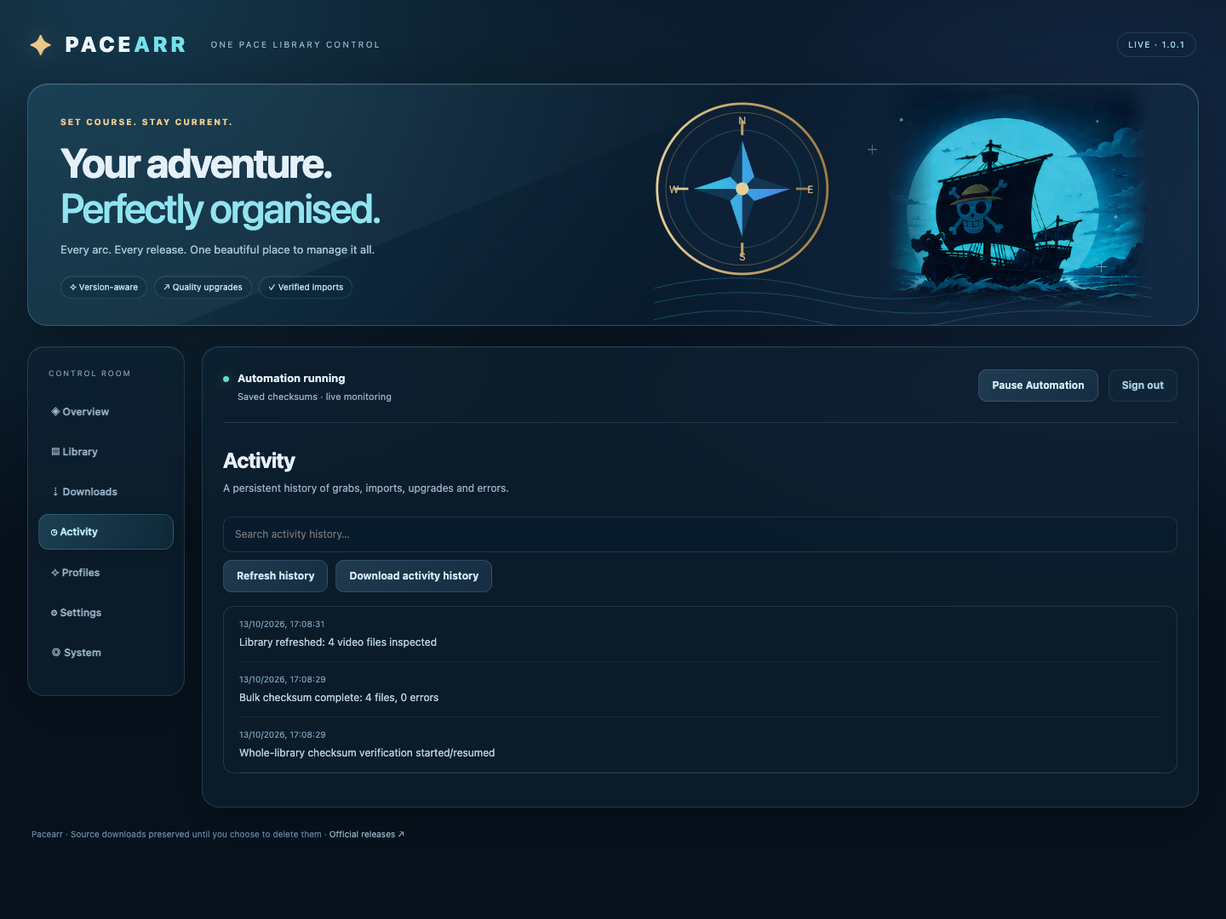
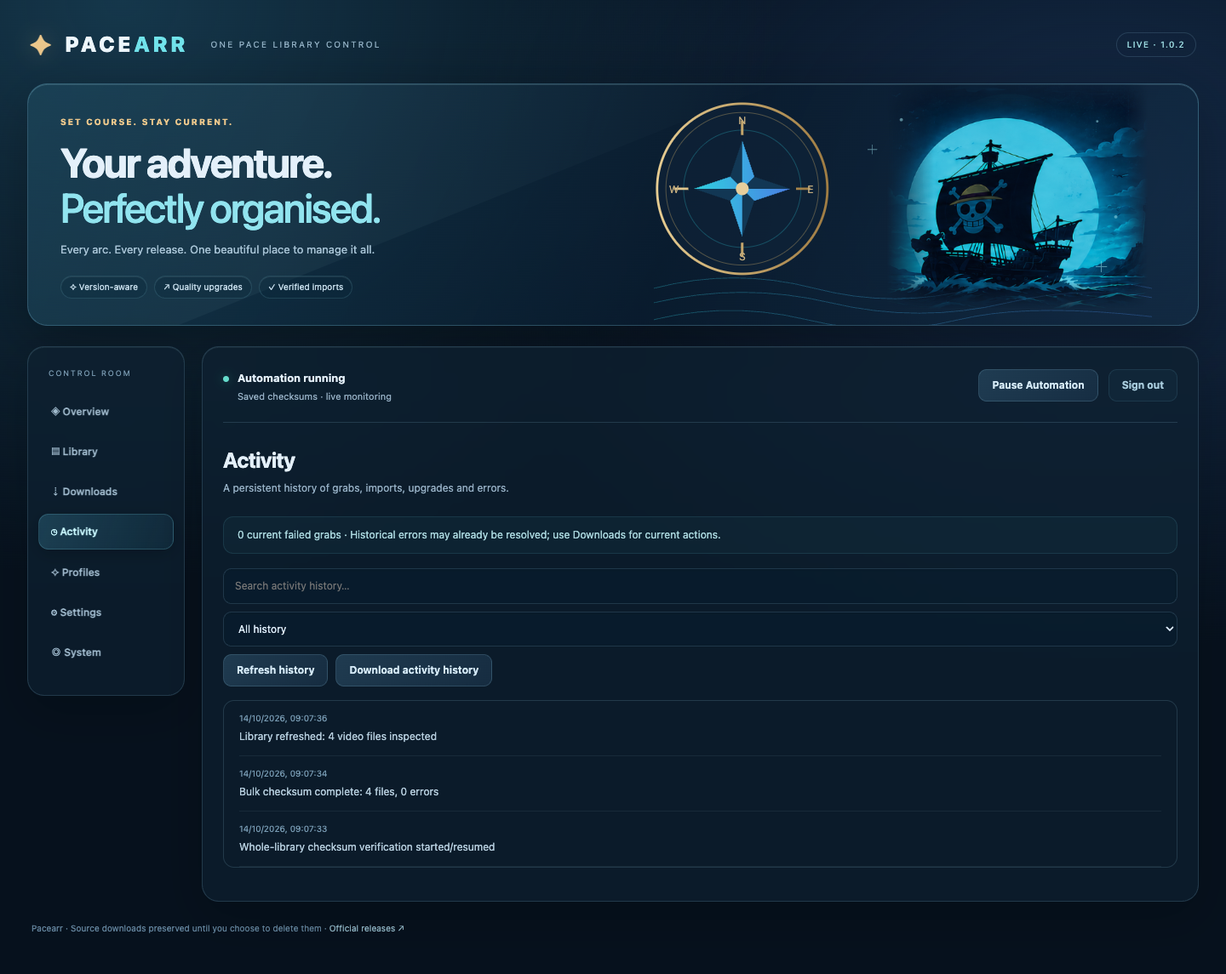
Release v1.0.2: separate download outcomes and prevent repeat Deluge grabs

diff --git a/web/manager.js b/web/manager.js
@@ -1,6 +1,7 @@
 window.mountManager=async function(){
+ const {downloadGroup}=await import('/download-state.mjs');
  const host=document.getElementById('app');host.innerHTML='<div class="control-shell"><nav class="sidebar" aria-label="Pacearr sections"><div class="sidebar-title">CONTROL ROOM</div></nav><div class="workspace"><div class="command-bar"><div><span class="live-dot"></span><strong id="automationState">Connecting…</strong><small id="automationDetail">Loading saved state</small></div><button id="automationToggle" class="primary">Start Automation</button><button id="logout" class="quiet">Sign out</button></div><div id="panels"></div></div></div>';
- const nav=host.querySelector('nav'),panels={},content=document.getElementById('panels');let current='Overview',status={},config={},libraryRows=[],feedRows=[],pollTimer=null,feedTimer=null,lastRunning=false,libraryLoading=false,lastLibraryRefresh=0,lastRevision=null,statusLoading=false;const downloadsSelected=new Set(),librarySelected=new Set();
+ const nav=host.querySelector('nav'),panels={},content=document.getElementById('panels');let current='Overview',status={},config={},libraryRows=[],feedRows=[],pollTimer=null,feedTimer=null,lastRunning=false,libraryLoading=false,lastLibraryRefresh=0,lastRevision=null,statusLoading=false;const downloadsSelected=new Set(),completedSelected=new Set(),librarySelected=new Set();
  const icons={Overview:'◈',Library:'▤',Downloads:'⇣',Activity:'◷',Profiles:'✧',Settings:'⚙',System:'◎'};
  for(const name of Object.keys(icons)){const button=makeButton(icons[name]+' '+name,()=>navigate(name),'nav-button');button.setAttribute('aria-label',name);nav.append(button);const panel=document.createElement('section');panel.className='panel';panel.hidden=true;panel.dataset.section=name;panels[name]=panel;content.append(panel);const h=document.createElement('h2');h.textContent=name;panel.append(h)}
  const intro={Overview:'Your collection at a glance. Live controls, real outcomes.',Library:'Browse episodes, search releases and grab missing or updated files.',Downloads:'Live progress and completed files from your configured download folder.',Activity:'A persistent history of grabs, imports, upgrades and errors.',Profiles:'Choose the releases Pacearr should look for and how it should handle them.',Settings:'Connections, mounted folders and saved credentials.',System:'Connection health, saved checksums and application information.'};
@@ -8,7 +9,7 @@ window.mountManager=async function(){
  function makeButton(text,action,style='secondary'){const b=document.createElement('button');b.type='button';b.className=style;b.textContent=text;b.onclick=async()=>{b.disabled=true;try{await action()}catch(e){notice(e.message)}finally{b.disabled=false}};return b}
  function line(text,style='helper'){const p=document.createElement('p');p.className=style;p.textContent=text;return p}
  function actions(...buttons){const group=document.createElement('div');group.className='actions';group.append(...buttons);return group}
- function badge(value){const el=document.createElement('span');el.className='badge badge-'+value;el.textContent=({verified:'✓ Verified',current:'Up to date',missing:'Missing',imported:'Imported','already-current':'Already installed','replacement-candidate':'Update available','manual-import':'Manual import',review:'Needs review','review-checksum-mismatch':'Needs review','present-unverified':'Not verified','excluded-special':'Special excluded','awaiting-authorisation':'Approval needed','awaiting-profile':'Profile mismatch',ignored:'Ignored'})[value]||String(value||'Pending').replaceAll('-',' ');return el}
+ function badge(value){const el=document.createElement('span');el.className='badge badge-'+value;el.textContent=({requested:'Waiting for slot',queued:'Accepted by Deluge',confirming:'Waiting for metadata','blocked-path':'Different download folder',verified:'✓ Verified',current:'Up to date',missing:'Missing',imported:'Imported','already-current':'Already installed','replacement-candidate':'Update available','manual-import':'Manual import',review:'Needs review','review-checksum-mismatch':'Needs review','present-unverified':'Not verified','excluded-special':'Special excluded','awaiting-authorisation':'Approval needed','awaiting-profile':'Profile mismatch',ignored:'Ignored'})[value]||String(value||'Pending').replaceAll('-',' ');return el}
  function episodeCode(row){return row.season===null||row.season===undefined?'Unmatched':`S${String(row.season).padStart(2,'0')}E${String(row.episode).padStart(2,'0')}`}
  function clearRevealed(){for(const name of ['plexToken','delugePassword']){const input=document.getElementById(name);if(input?.dataset.revealed==='yes'){input.value='';input.type='password';input.dataset.revealed='no';document.getElementById(name==='plexToken'?'revealPlex':'revealDeluge').innerHTML=eyeIcon(false)}}}
  function navigate(name){current=name;for(const [key,p] of Object.entries(panels))p.hidden=key!==name;for(const b of nav.querySelectorAll('button'))b.setAttribute('aria-current',b.getAttribute('aria-label')===name?'page':'false');if(name!=='Settings')clearRevealed();clearTimeout(feedTimer);if(name==='Downloads')refreshFeed();if(name==='Library'&&!libraryRows.length)loadLibrary();refreshStatus()}
@@ -29,18 +30,20 @@ window.mountManager=async function(){
  async function showGrabPlan(candidates,title){const m=modal(title,'Choose releases to grab. Current installed files are skipped; your concurrency limit is respected.');const chosen=new Set(candidates.filter(x=>x.available&&x.profileMatch.ok).map(x=>x.hash));const override=document.createElement('input');override.type='checkbox';const opt=document.createElement('label');opt.className='check-line';opt.append(override,document.createTextNode('Allow manual grabs outside profile preferences'));m.body.append(opt);const list=document.createElement('div');list.className='grab-plan';for(const c of candidates){const label=document.createElement('label');label.className='check-line';const check=document.createElement('input');check.type='checkbox';check.checked=chosen.has(c.hash);check.disabled=!c.available||!c.profileMatch.ok;check.dataset.profile=String(c.profileMatch.ok);check.onchange=()=>check.checked?chosen.add(c.hash):chosen.delete(c.hash);label.append(check,document.createTextNode(`${episodeCode(c)} · ${c.title} · ${c.variant} · ${c.quality?c.quality+'p':'Details after download'} · ${c.reason||''}`));list.append(label)}override.onchange=()=>{for(const check of list.querySelectorAll('input'))if(check.dataset.profile==='false')check.disabled=!override.checked};m.body.append(list);m.footer.append(makeButton('Cancel',()=>m.dialog.close()),makeButton('Grab selected releases',async()=>{const requests=candidates.filter(x=>chosen.has(x.hash)).map(x=>({season:x.season,episode:x.episode,variant:x.variant,overrideProfile:override.checked}));if(!requests.length)throw Error('Select at least one release');const r=await api('manage/grab','POST',{requests});notice(`${r.queued} grabs queued · ${r.skipped.length} skipped`);m.dialog.close();await refreshStatus()},'primary'))}
  async function searchWhole(){const r=await api('manage/search','POST',{scope:'library'});if(!r.candidates.length){notice('Your library has no available missing or updated preferred releases.');return}await showGrabPlan(r.candidates,`Search library · ${r.missing} missing / ${r.updates} updates`)}
  async function searchSelected(){const selected=libraryRows.filter(r=>librarySelected.has(episodeCode(r)));if(!selected.length)throw Error('Select library episodes first');const results=[];for(let i=0;i<selected.length;i+=4)results.push(...await Promise.all(selected.slice(i,i+4).map(r=>api('manage/search','POST',{season:r.season,episode:r.episode}))));await showGrabPlan(results.flatMap(x=>x.candidates.filter(c=>c.preferred)),'Grab selected episodes')}
- const feedSummary=line('Connecting to Deluge…','job-summary');panels.Downloads.append(feedSummary);const showIgnored=document.createElement('input');showIgnored.type='checkbox';const ignoredLabel=document.createElement('label');ignoredLabel.className='check-line';ignoredLabel.append(showIgnored,document.createTextNode('Show ignored / deleted items'));showIgnored.onchange=()=>renderFeed();const selectionSummary=line('Select completed files for bulk actions.','selection-summary');panels.Downloads.append(actions(makeButton('Refresh downloads',()=>refreshFeed()),makeButton('Import selected',()=>manualImport(feedRows.filter(x=>downloadsSelected.has(x.key))),'primary'),makeButton('Delete selected',()=>deleteFiles(feedRows.filter(x=>downloadsSelected.has(x.key))),'danger'),makeButton('Clear selection',()=>{downloadsSelected.clear();completedTable.render();selectionSummary.textContent='Selection cleared.'},'quiet')),selectionSummary,ignoredLabel);
+ const feedSummary=line('Connecting to Deluge…','job-summary');panels.Downloads.append(feedSummary,actions(makeButton('Refresh downloads',()=>refreshFeed())));const showIgnored=document.createElement('input');showIgnored.type='checkbox';const ignoredLabel=document.createElement('label');ignoredLabel.className='check-line';ignoredLabel.append(showIgnored,document.createTextNode('Show ignored / deleted items'));showIgnored.onchange=()=>renderFeed();panels.Downloads.append(ignoredLabel);
  function subheading(title){const h=document.createElement('h3');h.textContent=title;panels.Downloads.append(h)}
+ subheading('Queued episode grabs');const grabsTable=table(panels.Downloads,[{label:'Episode',get:episodeCode},{label:'Status',get:r=>badge(r.status)},{label:'What happens next',get:r=>r.reason||(r.status==='requested'?'Waiting for a free download slot':'Waiting for Deluge confirmation')}]);
  subheading('Downloading');const liveTable=table(panels.Downloads,[{label:'File',get:r=>r.path},{label:'State',get:r=>r.state},{label:'Progress',get:r=>{const box=document.createElement('div');box.className='progress-cell';const bar=document.createElement('progress');bar.max=100;if(r.progress!==null)bar.value=r.progress;box.append(bar,document.createTextNode(r.progress===null?'Metadata loading':r.progress.toFixed(1)+'%'));return box}}]);
- subheading('Completed & awaiting action');const completedTable=table(panels.Downloads,[{label:'File',get:r=>r.path},{label:'Status',get:r=>badge(r.ignored?'ignored':r.queue?.status||'pending')},{label:'Details',get:r=>r.queue?.reason||'Waiting for verified processing'},{label:'Actions',get:r=>actions(...(r.exists?[makeButton('Review',()=>review(r),'quiet')]:[]),...(r.exists?[makeButton('Import',()=>manualImport([r])),makeButton('Delete',()=>deleteFiles([r]),'danger')]:[]))}],{selection:downloadsSelected,canSelect:r=>r.exists&&r.progress===100,onSelect:()=>selectionSummary.textContent=downloadsSelected.size+' files selected'});
- subheading('Errors');const errorsTable=table(panels.Downloads,[{label:'File / episode',get:r=>r.path},{label:'Error',get:r=>r.queue?.reason},{label:'Actions',get:r=>actions(...(r.acquisition?[makeButton('Search episode',()=>searchEpisode(r),'quiet')]:[makeButton('Review',()=>review(r),'quiet')]),makeButton('Retry',async()=>{await api('manage/retry','POST',{key:r.key});await refreshFeed()}))}]);
- let acquisitions=[];function renderFeed(){const visible=feedRows.filter(x=>showIgnored.checked||!x.ignored);liveTable.set(visible.filter(x=>x.progress!==100&&x.queue?.status!=='error'));completedTable.set(visible.filter(x=>x.progress===100&&x.queue?.status!=='error'));errorsTable.set([...visible.filter(x=>x.queue?.status==='error'),...acquisitions.filter(x=>x.status==='error').map(x=>({...x,acquisition:true,key:x.hash,path:episodeCode(x)+' torrent grab',queue:x}))])}
- async function refreshFeed(){try{const r=await api('manage/feed');if(!r.ok)throw Error(r.error);feedRows=r.rows;acquisitions=r.acquisitions||[];renderFeed();feedSummary.textContent=`${r.root} · ${feedRows.filter(x=>x.progress!==100).length} downloading · ${feedRows.filter(x=>x.progress===100&&!x.ignored).length} completed · refreshed ${new Date(r.updated).toLocaleTimeString()}`+(r.workerError?' · '+r.workerError:'')}catch(e){feedSummary.textContent='Download feed: '+e.message}finally{clearTimeout(feedTimer);if(current==='Downloads'&&host.contains(content))feedTimer=setTimeout(refreshFeed,15000)}}
+ subheading('Awaiting action');panels.Downloads.append(line('Downloaded files needing verification, approval, a profile decision or manual episode assignment.'));const awaitingSelection=line('Select files to import or delete.','selection-summary');panels.Downloads.append(actions(makeButton('Import selected awaiting files',()=>manualImport(feedRows.filter(x=>downloadsSelected.has(x.key))),'primary'),makeButton('Delete selected awaiting files',()=>deleteFiles(feedRows.filter(x=>downloadsSelected.has(x.key))),'danger'),makeButton('Clear awaiting selection',()=>{downloadsSelected.clear();awaitingTable.render();awaitingSelection.textContent='Selection cleared.'},'quiet')),awaitingSelection);const awaitingTable=table(panels.Downloads,[{label:'File',get:r=>r.path},{label:'Status',get:r=>badge(r.ignored?'ignored':r.queue?.status||'pending')},{label:'Needs attention',get:r=>r.queue?.reason||'Waiting for verified processing'},{label:'Actions',get:r=>actions(...(r.exists?[makeButton('Review',()=>review(r),'quiet'),makeButton('Import',()=>manualImport([r])),makeButton('Delete',()=>deleteFiles([r]),'danger')]:[]))}],{selection:downloadsSelected,canSelect:r=>r.exists&&r.finished&&r.progress===100,onSelect:()=>awaitingSelection.textContent=downloadsSelected.size+' awaiting files selected'});
+ subheading('Completed');panels.Downloads.append(line('Imported or already installed. These source files remain available for seeding until you choose to delete them.'));const completedSelection=line('Select completed source files to delete.','selection-summary');panels.Downloads.append(actions(makeButton('Delete selected completed files',()=>deleteFiles(feedRows.filter(x=>completedSelected.has(x.key))),'danger'),makeButton('Clear completed selection',()=>{completedSelected.clear();completedTable.render();completedSelection.textContent='Selection cleared.'},'quiet')),completedSelection);const completedTable=table(panels.Downloads,[{label:'File',get:r=>r.path},{label:'Outcome',get:r=>badge(r.queue?.status)},{label:'Library / details',get:r=>r.queue?.destination||r.queue?.reason},{label:'Actions',get:r=>actions(makeButton('View library',()=>navigate('Library'),'quiet'),...(r.exists?[makeButton('Delete source',()=>deleteFiles([r]),'danger')]:[]))}],{selection:completedSelected,canSelect:r=>r.exists&&r.finished&&r.progress===100,onSelect:()=>completedSelection.textContent=completedSelected.size+' completed files selected'});
+ subheading('Errors');const errorsTable=table(panels.Downloads,[{label:'File / episode',get:r=>r.path},{label:'Failure and next step',get:r=>(r.queue?.reason||'Unknown failure')+(r.queue?.retryAt?` · ${r.queue.attempts>=5?'Manual retry required':'Retry '+new Date(r.queue.retryAt).toLocaleString()}`:'')},{label:'Actions',get:r=>actions(...(r.acquisition?[makeButton('Search episode',()=>searchEpisode(r),'quiet')]:[makeButton('Review',()=>review(r),'quiet')]),makeButton('Retry',async()=>{await api('manage/retry','POST',{key:r.key});await refreshFeed()}))}]);
+ let acquisitions=[],grabs=[];function renderFeed(){const visible=feedRows.filter(x=>showIgnored.checked||!x.ignored);for(const key of downloadsSelected)if(!visible.some(r=>r.key===key&&downloadGroup(r)==='awaiting'&&r.exists&&r.finished))downloadsSelected.delete(key);for(const key of completedSelected)if(!visible.some(r=>r.key===key&&downloadGroup(r)==='completed'&&r.exists&&r.finished))completedSelected.delete(key);awaitingSelection.textContent=downloadsSelected.size+' awaiting files selected';completedSelection.textContent=completedSelected.size+' completed files selected';liveTable.set(visible.filter(x=>downloadGroup(x)==='downloading'));awaitingTable.set(visible.filter(x=>downloadGroup(x)==='awaiting'));completedTable.set(visible.filter(x=>downloadGroup(x)==='completed'));grabsTable.set(grabs.filter(x=>['requested','queued','confirming','pending','blocked-path'].includes(x.status)&&!feedRows.some(r=>r.hash===x.hash)));const failed=new Map([...acquisitions,...grabs].filter(x=>x.status==='error').map(x=>[x.hash,x]));errorsTable.set([...visible.filter(x=>downloadGroup(x)==='errors'),...[...failed.values()].map(x=>({...x,acquisition:true,key:x.hash,path:episodeCode(x)+' torrent grab',queue:x}))])}
+ async function refreshFeed(){try{const r=await api('manage/feed');if(!r.ok)throw Error(r.error);feedRows=r.rows;acquisitions=r.acquisitions||[];grabs=r.grabs||[];renderFeed();const visible=feedRows.filter(x=>!x.ignored);feedSummary.textContent=`${r.root} · ${visible.filter(x=>downloadGroup(x)==='downloading').length} downloading · ${visible.filter(x=>downloadGroup(x)==='completed').length} completed · ${visible.filter(x=>downloadGroup(x)==='awaiting').length} awaiting action · refreshed ${new Date(r.updated).toLocaleTimeString()}`+(r.workerError?' · '+r.workerError:'')}catch(e){feedSummary.textContent='Download feed: '+e.message}finally{clearTimeout(feedTimer);if(current==='Downloads'&&host.contains(content))feedTimer=setTimeout(refreshFeed,15000)}}
  async function review(row){if(!row.key||!row.path)throw Error('Choose a download file');const r=await api('manage/review','POST',{key:row.key});const m=modal('Review download',r.file.path);const grid=document.createElement('div');grid.className='detail-grid';for(const text of [`State: ${r.file.state}`,`Progress: ${r.file.progress}%`,`Size: ${(r.file.size/1073741824).toFixed(2)} GB`,`Reason: ${r.file.queue?.reason||'No review reason'}`])grid.append(line(text));m.body.append(grid,line('Unsupported edits can be assigned manually to an episode or ignored. Original downloads are retained after import.'));m.footer.append(makeButton('Recheck',async()=>{await api('manage/retry','POST',{key:row.key});m.dialog.close();await refreshFeed()}),makeButton(row.ignored?'Restore item':'Ignore file',async()=>{await api('manage/ignore','POST',{key:row.key,ignored:!row.ignored});m.dialog.close();await refreshFeed()}),makeButton('Ignore folder',async()=>{await api('manage/ignore','POST',{key:row.key,folder:true});m.dialog.close();await refreshFeed()}),makeButton('Assign & import',async()=>{m.dialog.close();await manualImport([row])},'primary'))}
- async function manualImport(rows){if(!rows.length)throw Error('Select completed download files first');if(rows.some(x=>x.progress!==100||!x.exists))throw Error('Select only completed files that still exist');const m=modal(rows.length===1?'Manual import':'Bulk manual import',`${rows.length} selected files. Confirm an episode assignment for each. Replaced files are backed up; source downloads stay intact.`);const list=document.createElement('datalist');list.id='manual-episodes-'+Date.now();for(const ep of libraryRows.filter(x=>x.season!==null)){if(list.querySelector(`option[value="${episodeCode(ep)}"]`))continue;const option=document.createElement('option');option.value=episodeCode(ep);option.label=ep.title;list.append(option)}m.body.append(list);const entries=[];for(const row of rows){const group=document.createElement('label');group.className='mapping-row';group.append(document.createTextNode(row.path));const input=document.createElement('input');input.placeholder='S36E01';input.setAttribute('list',list.id);input.setAttribute('aria-label','Episode assignment for '+row.path);if(Number.isInteger(row.queue?.season))input.value=episodeCode(row.queue);group.append(input);m.body.append(group);entries.push({row,input})}const sequence=document.createElement('input');sequence.placeholder='Starting episode, e.g. S36E01';sequence.setAttribute('aria-label','Starting episode');m.body.append(actions(sequence,makeButton('Apply consecutive episode assignments',()=>{const match=/^S(\d{1,3})E(\d{1,3})$/i.exec(sequence.value.trim());if(!match)throw Error('Enter a starting SxxExx episode');entries.forEach((x,i)=>x.input.value=episodeCode({season:+match[1],episode:+match[2]+i}))})));const replace=document.createElement('input');replace.type='checkbox';const label=document.createElement('label');label.className='check-line';label.append(replace,document.createTextNode('Allow replacement of installed episodes; previous files will be backed up'));m.body.append(label);m.footer.append(makeButton('Cancel',()=>m.dialog.close()),makeButton('Import selected files',async()=>{const assignments=entries.map(({row,input})=>{const match=/^S(\d{1,3})E(\d{1,3})$/i.exec(input.value.trim());if(!match)throw Error('Assign every selected file to an SxxExx episode');return {key:row.key,season:+match[1],episode:+match[2],replaceConfirmed:replace.checked}});const result=await api('manage/manual-import','POST',{assignments});notice(result.queued+' manual imports queued');m.dialog.close();downloadsSelected.clear();await refreshFeed()},'primary'))}
- async function deleteFiles(rows){if(!rows.length)throw Error('Select completed files first');const m=modal('Delete '+rows.length+' download files','This removes the selected source files. Library copies are preserved. Seeding for the selected files will be affected.');for(const row of rows)m.body.append(line(row.path,'delete-path'));const remove=document.createElement('input');remove.type='checkbox';const label=document.createElement('label');label.className='check-line';label.append(remove,document.createTextNode('Also remove affected torrent records from Deluge; unselected data stays on disk'));m.body.append(label);m.footer.append(makeButton('Cancel',()=>m.dialog.close()),makeButton('Delete selected files',async()=>{const result=await api('manage/delete','POST',{keys:rows.map(x=>x.key),confirm:'DELETE_SELECTED_FILES',removeTorrents:remove.checked});notice(`${result.deleted?.length||0} files deleted`+(result.failed?.length?' · '+result.failed.length+' failed':''));m.dialog.close();downloadsSelected.clear();await refreshFeed()},'danger'))}
- const activitySearch=document.createElement('input');activitySearch.type='search';activitySearch.placeholder='Search activity history…';activitySearch.setAttribute('aria-label','Search activity history');const activityList=document.createElement('div');activityList.className='activity-log';panels.Activity.append(actions(activitySearch,makeButton('Refresh history',()=>refreshStatus()),makeButton('Download activity history',async()=>{const r=await api('manage/status'),blob=new Blob([r.activity.map(x=>`${x.time} [${x.level||'info'}] ${x.message}`).join('\n')],{type:'text/plain'}),url=URL.createObjectURL(blob),a=document.createElement('a');a.href=url;a.download='pacearr-activity.log';a.click();setTimeout(()=>URL.revokeObjectURL(url),1000)})),activityList);activitySearch.oninput=()=>renderActivity();
- function renderActivity(){activityList.replaceChildren();for(const item of (status.activity||[]).filter(x=>(x.time+' '+x.message).toLowerCase().includes(activitySearch.value.toLowerCase()))){const row=document.createElement('div');row.className='activity-event activity-'+(item.level||'info');row.append(line(new Date(item.time).toLocaleString(),'event-time'),line(item.message,'event-message'));activityList.append(row)}recent.replaceChildren();for(const item of (status.activity||[]).slice(0,5))recent.append(line(new Date(item.time).toLocaleTimeString()+' · '+item.message,'recent-event'))}
+ async function manualImport(rows){if(!rows.length)throw Error('Select completed download files first');if(rows.some(x=>x.progress!==100||!x.exists))throw Error('Select only completed files that still exist');const m=modal(rows.length===1?'Manual import':'Bulk manual import',`${rows.length} selected files. Confirm an episode assignment for each. Replaced files are backed up; source downloads stay intact.`);const list=document.createElement('datalist');list.id='manual-episodes-'+Date.now();for(const ep of libraryRows.filter(x=>x.season!==null)){if(list.querySelector(`option[value="${episodeCode(ep)}"]`))continue;const option=document.createElement('option');option.value=episodeCode(ep);option.label=ep.title;list.append(option)}m.body.append(list);const entries=[];for(const row of rows){const group=document.createElement('label');group.className='mapping-row';group.append(document.createTextNode(row.path));const input=document.createElement('input');input.placeholder='S36E01';input.setAttribute('list',list.id);input.setAttribute('aria-label','Episode assignment for '+row.path);if(Number.isInteger(row.queue?.season))input.value=episodeCode(row.queue);group.append(input);m.body.append(group);entries.push({row,input})}const sequence=document.createElement('input');sequence.placeholder='Starting episode, e.g. S36E01';sequence.setAttribute('aria-label','Starting episode');m.body.append(actions(sequence,makeButton('Apply consecutive episode assignments',()=>{const match=/^S(\d{1,3})E(\d{1,3})$/i.exec(sequence.value.trim());if(!match)throw Error('Enter a starting SxxExx episode');entries.forEach((x,i)=>x.input.value=episodeCode({season:+match[1],episode:+match[2]+i}))})));const replace=document.createElement('input');replace.type='checkbox';const label=document.createElement('label');label.className='check-line';label.append(replace,document.createTextNode('Allow replacement of installed episodes; previous files will be backed up'));m.body.append(label);m.footer.append(makeButton('Cancel',()=>m.dialog.close()),makeButton('Import selected files',async()=>{const assignments=entries.map(({row,input})=>{const match=/^S(\d{1,3})E(\d{1,3})$/i.exec(input.value.trim());if(!match)throw Error('Assign every selected file to an SxxExx episode');return {key:row.key,season:+match[1],episode:+match[2],replaceConfirmed:replace.checked}});const result=await api('manage/manual-import','POST',{assignments});notice(result.queued+' manual imports queued');m.dialog.close();downloadsSelected.clear();completedSelected.clear();await refreshFeed()},'primary'))}
+ async function deleteFiles(rows){if(!rows.length)throw Error('Select completed files first');const m=modal('Delete '+rows.length+' download files','This removes the selected source files. Library copies are preserved. Seeding for the selected files will be affected.');for(const row of rows)m.body.append(line(row.path,'delete-path'));const remove=document.createElement('input');remove.type='checkbox';const label=document.createElement('label');label.className='check-line';label.append(remove,document.createTextNode('Also remove affected torrent records from Deluge; unselected data stays on disk'));m.body.append(label);m.footer.append(makeButton('Cancel',()=>m.dialog.close()),makeButton('Delete selected files',async()=>{const result=await api('manage/delete','POST',{keys:rows.map(x=>x.key),confirm:'DELETE_SELECTED_FILES',removeTorrents:remove.checked});notice(`${result.deleted?.length||0} files deleted`+(result.failed?.length?' · '+result.failed.length+' failed':''));m.dialog.close();downloadsSelected.clear();completedSelected.clear();await refreshFeed()},'danger'))}
+ const activitySearch=document.createElement('input');activitySearch.type='search';activitySearch.placeholder='Search activity history…';activitySearch.setAttribute('aria-label','Search activity history');const activityLevel=document.createElement('select');activityLevel.setAttribute('aria-label','Activity severity');for(const [value,label] of [['all','All history'],['error','Errors'],['warning','Warnings'],['info','Information']]){const o=document.createElement('option');o.value=value;o.textContent=label;activityLevel.append(o)}activityLevel.onchange=()=>renderActivity();const activitySummary=line('History includes past outcomes; current queue failures are shown under Downloads.','job-summary');panels.Activity.append(activitySummary);const activityList=document.createElement('div');activityList.className='activity-log';panels.Activity.append(actions(activitySearch,activityLevel,makeButton('Refresh history',()=>refreshStatus()),makeButton('Download activity history',async()=>{const r=await api('manage/status'),blob=new Blob([r.activity.map(x=>`${x.time} [${x.level||'info'}] ${x.message}`).join('\n')],{type:'text/plain'}),url=URL.createObjectURL(blob),a=document.createElement('a');a.href=url;a.download='pacearr-activity.log';a.click();setTimeout(()=>URL.revokeObjectURL(url),1000)})),activityList);activitySearch.oninput=()=>renderActivity();
+ function renderActivity(){const failed=[...(status.manualGrabs||[]),...(status.acquisitions||[])].filter(x=>x.status==='error');activitySummary.textContent=`${new Set(failed.map(x=>x.hash)).size} current failed grabs · Historical errors may already be resolved; use Downloads for current actions.`;activityList.replaceChildren();for(const item of (status.activity||[]).filter(x=>(activityLevel.value==='all'||x.level===activityLevel.value)&&(x.time+' '+x.message).toLowerCase().includes(activitySearch.value.toLowerCase()))){const row=document.createElement('div');row.className='activity-event activity-'+(item.level||'info');row.append(line(new Date(item.time).toLocaleString(),'event-time'),line(item.message,'event-message'));activityList.append(row)}recent.replaceChildren();for(const item of (status.activity||[]).slice(0,5))recent.append(line(new Date(item.time).toLocaleTimeString()+' · '+item.message,'recent-event'))}
  const profileForm=document.createElement('form');profileForm.className='profile-form';const profileToggles={preferAlternate:'Prefer alternate releases, including G-8',preferExtended:'Prefer extended releases',includeSpecials:'Include specials',autoRevisions:'Automatically replace older edits',autoQualityUpgrades:'Automatically upgrade quality',fetchUpdates:'Grab revised / upgraded releases in Deluge',autoMissing:'Automatically grab missing episodes'};
  for(const [name,text] of Object.entries(profileToggles)){const label=document.createElement('label');label.className='profile-switch';const input=document.createElement('input');input.type='checkbox';input.name=name;label.append(input,document.createTextNode(text));profileForm.append(label)}
  for(const [name,text,options] of [['minimumQuality','Minimum quality',[[720,'720p'],[1080,'1080p']]],['targetQuality','Upgrade target',[[720,'720p'],[1080,'1080p']]],['maxConcurrentDownloads','Concurrent downloads',[[1,'1'],[2,'2'],[3,'3'],[5,'5'],[10,'10']]],['language','Language preference',[['subbed','Japanese audio + English subtitles'],['dubbed','Prefer English dub when available'],['both','Prefer both audio tracks']]]]){const label=document.createElement('label');label.className='profile-field';label.textContent=text;const select=document.createElement('select');select.name=name;for(const [value,title] of options)select.add(new Option(title,value));label.append(select);profileForm.append(label)}

diff --git a/web/index.html b/web/index.html
@@ -1,1 +1,1 @@
-<!doctype html><html lang="en"><head><meta charset="utf-8"><meta name="viewport" content="width=device-width,initial-scale=1"><meta name="theme-color" content="#07121e"><title>Pacearr · Library Control</title><link rel="stylesheet" href="/app.css?v=1.0.1"></head><body><div class="ambient ambient-a"></div><div class="ambient ambient-b"></div><main><header class="masthead"><a class="brand" href="/"><span class="brand-mark">✦</span>PACE<span>ARR</span></a><span class="masthead-tag">ONE PACE LIBRARY CONTROL</span><span class="release-label">LIVE · 1.0.1</span></header><section class="hero"><div class="hero-copy"><span class="eyebrow">SET COURSE. STAY CURRENT.</span><h1>Your adventure.<br><em>Perfectly organised.</em></h1><p>Every arc. Every release. One beautiful place to manage it all.</p><div class="hero-chips"><span>✧ Version-aware</span><span>↗ Quality upgrades</span><span>✓ Verified imports</span></div></div><img class="hero-art" src="/hero.svg" alt="A luminous compass and pirate ship with a straw-hat flag over a midnight ocean"></section><section id="message" role="status" hidden></section><section id="app">Loading your library…</section><footer>Pacearr · Source downloads preserved until you choose to delete them · <a href="https://onepace.net/en/releases" target="_blank" rel="noopener noreferrer">Official releases ↗</a></footer></main><script src="/manager.js?v=1.0.1" defer></script><script src="/app.js?v=1.0.1" defer></script></body></html>
+<!doctype html><html lang="en"><head><meta charset="utf-8"><meta name="viewport" content="width=device-width,initial-scale=1"><meta name="theme-color" content="#07121e"><title>Pacearr · Library Control</title><link rel="stylesheet" href="/app.css?v=1.0.2"></head><body><div class="ambient ambient-a"></div><div class="ambient ambient-b"></div><main><header class="masthead"><a class="brand" href="/"><span class="brand-mark">✦</span>PACE<span>ARR</span></a><span class="masthead-tag">ONE PACE LIBRARY CONTROL</span><span class="release-label">LIVE · 1.0.2</span></header><section class="hero"><div class="hero-copy"><span class="eyebrow">SET COURSE. STAY CURRENT.</span><h1>Your adventure.<br><em>Perfectly organised.</em></h1><p>Every arc. Every release. One beautiful place to manage it all.</p><div class="hero-chips"><span>✧ Version-aware</span><span>↗ Quality upgrades</span><span>✓ Verified imports</span></div></div><img class="hero-art" src="/hero.svg" alt="A luminous compass and pirate ship with a straw-hat flag over a midnight ocean"></section><section id="message" role="status" hidden></section><section id="app">Loading your library…</section><footer>Pacearr · Source downloads preserved until you choose to delete them · <a href="https://onepace.net/en/releases" target="_blank" rel="noopener noreferrer">Official releases ↗</a></footer></main><script src="/manager.js?v=1.0.2" defer></script><script src="/app.js?v=1.0.2" defer></script></body></html>

diff --git a/RELEASE-NOTES.md b/RELEASE-NOTES.md
@@ -1,44 +1,38 @@
-# Set sail with Pacearr 🚢
+# Clearer downloads. Clearer decisions. 🚢
 
-**One Pace. Managed.** A live library view, visible download progress and verified upgrades—with the history of the project preserved.
+Pacearr v1.0.2 separates successful work from files needing attention and makes the Deluge grab lifecycle easier to follow. The glass layout and ship banner stay intact.
 
-![Pacearr control room](https://raw.githubusercontent.com/DaHeroKozuki/Pacearr/v1.0.1/docs/screenshots/overview.png)
+![Pacearr Downloads](https://raw.githubusercontent.com/DaHeroKozuki/Pacearr/v1.0.2/docs/screenshots/downloads.png)
 
-## What’s new in v1.0.1
+## Downloads now has distinct sections
 
-| Change | What it means for you |
-| --- | --- |
-| Clean deployment names | Project, service and container are all `pacearr`; the official Synology folder is `/volume1/docker/pacearr` |
-| Lean deployment folder | Only Compose and persistent state are needed when using the public image; cleanup archives development leftovers |
-| A richer project page | Original history, configuration reference and credits return, with current instructions, mount guidance and five WebUI screenshots |
-| Quieter live updates | Library, Overview, Downloads and Activity refresh automatically; background inventory checks no longer crowd the activity log |
-| Complete rebuildable source | Active source, portable integration/browser fixtures, packaging and screenshot tooling are published and included in a source archive |
-| Fresh public image | amd64 and arm64 builds pass unit/integration checks and a Docker health check before publication |
+- **Queued episode grabs:** requests waiting for a slot or Deluge metadata/feed confirmation. Existing torrents outside the configured folder are explained here.
+- **Downloading:** scoped torrent progress.
+- **Awaiting action:** completed downloads needing verification, approval, a profile decision or manual episode assignment—with its own single/bulk import and deletion controls.
+- **Completed:** imported or already installed source files, with a separate selection and source-deletion control. Sources remain available for seeding until explicitly deleted.
+- **Errors:** current failed jobs, actual reasons, retry timing and actions. Manual grab failures now appear here too.
 
-## Your collection, your control
+Selections are scoped to their section and cleared when a file changes category, avoiding accidental reuse of a selection after import.
 
-Search the full library, selected episodes or one release. Follow scoped Deluge progress. Import completed verified episodes, let same-cut revisions and 720p→1080p upgrades run unattended, or review custom edits with explicit episode assignments. Select one file or several for manual import or confirmed download deletion.
+## Deluge rejections explained
 
-Saved checksums survive restarts and updates. Verified copies preserve original downloads for seeding; replacements retain backups and restart-recovery journals. Activity records outcomes, errors and retries. Quality, cut, language and concurrency profiles put the release decisions in your hands.
+The previous generic “rejected read-only query” message hid the failed operation. New messages include the RPC method, error code and Deluge's reason, with saved password values redacted. Grab failures show attempt and retry timing; skipped grabs explain why they were skipped.
 
-![Pacearr Library](https://raw.githubusercontent.com/DaHeroKozuki/Pacearr/v1.0.1/docs/screenshots/library.png)
+Exact existing hashes are reused. A duplicate/being-added response naming the requested hash is treated as confirmation, not an unsuccessful new grab. Successfully accepted magnets reserve concurrency capacity while waiting for feed visibility and are not resubmitted automatically. If confirmation remains absent after five minutes, the queue asks for a Deluge check and manual Retry instead of sending another add blindly.
 
-<details><summary><b>See live downloads and profiles</b></summary>
+## Activity distinguishes current work from history
 
-![Pacearr Downloads](https://raw.githubusercontent.com/DaHeroKozuki/Pacearr/v1.0.1/docs/screenshots/downloads.png)
-![Pacearr Profiles](https://raw.githubusercontent.com/DaHeroKozuki/Pacearr/v1.0.1/docs/screenshots/profiles.png)
+A severity filter helps inspect information, warnings or errors. The current failed-grab count is shown separately from historical events, which may already be resolved. Existing history and checksum records remain intact.
 
-</details>
+![Pacearr Activity](https://raw.githubusercontent.com/DaHeroKozuki/Pacearr/v1.0.2/docs/screenshots/activity.png)
 
-*Screenshots show an isolated demonstration library.*
+## Try missing episodes
 
-## Install or update
+In Library, filter to Missing, select the episodes you want and use Grab selected episodes. Review the available releases/profile matches before submitting. Alternatively, enable Automatically grab missing episodes in Profiles and save while automation runs. Existing saved preferences are not silently changed; the default concurrency remains three unless you changed it.
 
-**Image:** `ghcr.io/daherokozuki/pacearr:v1.0.1` · Rolling tags: `:latest` and `:alpha`.
+Unavailable releases or unsupported profile matches can remain missing; the new skip/queue messages distinguish these from successful submissions and actual failures.
 
-New deployments: edit the host folders and UID:GID in [compose.yaml](https://github.com/DaHeroKozuki/Pacearr/blob/v1.0.1/compose.yaml), create a writable `data/state`, then configure the WebUI at port 49113. [Read the complete mount/setup guide](https://github.com/DaHeroKozuki/Pacearr/blob/v1.0.1/README.md#getting-started).
-
-Existing standalone Synology deployments: run [migrate-synology.sh](https://github.com/DaHeroKozuki/Pacearr/blob/v1.0.1/scripts/migrate-synology.sh) to clean the names while preserving saved paths and state. Then run [cleanup-synology.py](https://github.com/DaHeroKozuki/Pacearr/blob/v1.0.1/scripts/cleanup-synology.py) to archive unused development files. Inspect the new state mount before deleting any old test folder.
+## Update
 
 ```sh
 cd /volume1/docker/pacearr
@@ -46,14 +40,10 @@ docker-compose -p pacearr -f compose.yaml pull pacearr
 docker-compose -p pacearr -f compose.yaml up -d --no-build --no-deps --force-recreate pacearr
 ```
 
-Keep `/data/state` mounted across updates: it holds your private settings, vault keys, encrypted credentials, checksums and history. It is never included in public source archives.
+Refresh the browser once for the new assets. Preserve `/data/state`. Public images: `ghcr.io/daherokozuki/pacearr:v1.0.2`, `:latest` and compatibility tag `:alpha`, for amd64/arm64.
 
-## What’s included
+The application ZIP, complete active source archive and SHA256SUMS are attached. All earlier source/history and the expanded [setup/mount guide](https://github.com/DaHeroKozuki/Pacearr) remain available. No private state or credentials are packaged.
 
-- `pacearr-v1.0.1.zip`: application/deployment files, not personal state.
-- `pacearr-v1.0.1-source.zip`: complete active application, tests, scripts, documentation, screenshots and license.
-- `SHA256SUMS`: archive checksums.
+**Validation:** 23 unit tests, automatic import/upgrade/acquisition/bulk/restart fixtures, a delayed Deluge visibility regression, desktop/mobile UI checks, and CI Docker build/health checks before publication. Screenshots use isolated demonstration data.
 
-Current runtime: Deluge and mounted libraries, with read-only Plex connection/discovery. Plex mutations and historical Jellyfin/Emby/other-client integrations remain outside this runtime; their original source and reference are preserved in GitHub. Earlier Alpha environment/SQLite settings require explicit WebUI configuration; standalone setup.json/vault/checksum state stays compatible.
-
-Thanks to eltharynd, the One Pace team and everyone who helped bring Pacearr from its original foundation to this release. [Explore the project’s journey](https://github.com/DaHeroKozuki/Pacearr/blob/v1.0.1/README.md#the-journey-so-far) · [Join the community](https://discord.gg/u3zksrG8G6)
+[Project and setup guide](https://github.com/DaHeroKozuki/Pacearr) · [Community](https://discord.gg/u3zksrG8G6)

diff --git a/README.md b/README.md
@@ -6,7 +6,7 @@
 
 **One Pace library automation, built for self-hosters.**
 
-[![Version](https://img.shields.io/badge/version-1.0.1-38bdf8?style=flat-square)](https://github.com/DaHeroKozuki/Pacearr/releases)
+[![Version](https://img.shields.io/badge/version-1.0.2-38bdf8?style=flat-square)](https://github.com/DaHeroKozuki/Pacearr/releases)
 [![GitHub Packages](https://img.shields.io/badge/ghcr.io-daherokozuki%2Fpacearr-blue?style=flat-square&logo=github)](https://github.com/DaHeroKozuki/Pacearr/pkgs/container/pacearr)
 [![GitHub Release](https://img.shields.io/github/v/release/DaHeroKozuki/Pacearr?include_prereleases&style=flat-square)](https://github.com/DaHeroKozuki/Pacearr/releases)
 [![GitHub Issues](https://img.shields.io/github/issues/DaHeroKozuki/Pacearr?style=flat-square)](https://github.com/DaHeroKozuki/Pacearr/issues)
@@ -63,7 +63,7 @@ Browse installed and missing episodes, filter statuses, see saved checksum resul
 
 ### Downloads — watch progress and take action
 
-A live feed shows progress for the exact download folder you configured. Completed files have review, import and delete actions. Select several files for bulk import or confirmed deletion; inspect unresolved cases instead of guessing what happened.
+A live feed shows progress for the exact download folder you configured. Awaiting action holds downloaded files needing verification, approval or manual assignment. Completed holds imported or already installed sources, with separate selection and deletion controls. Select several files for bulk import or confirmed deletion; inspect unresolved cases instead of guessing what happened.
 
 ![Pacearr Downloads](docs/screenshots/downloads.png)
 
@@ -77,7 +77,7 @@ Set minimum quality, an upgrade target, preferred cuts, language preference and 
 
 ![Pacearr Activity](docs/screenshots/activity.png)
 
-Activity stores the latest 1,000 timestamped entries across restarts: checksums, imports, upgrades, review decisions, errors and recovery. Search it or export a text log.
+Activity shows current failed-grab counts separately from history, offers severity filtering, and records Deluge RPC methods, redacted rejection details and retry timing. It stores the latest 1,000 timestamped entries across restarts: checksums, imports, upgrades, review decisions, errors and recovery. Search it or export a text log.
 
 </details>
 
@@ -158,7 +158,7 @@ Docker images support **linux/amd64** and **linux/arm64**. Node.js 24 and ffmpeg
 
 ### Docker Compose
 
-Use `ghcr.io/daherokozuki/pacearr:latest` for easy updates, or pin `:v1.0.1`. The service, container and project are named **pacearr**.
+Use `ghcr.io/daherokozuki/pacearr:latest` for easy updates, or pin `:v1.0.2`. The service, container and project are named **pacearr**.
 
 ```yaml
 services:
@@ -328,6 +328,7 @@ Stop the worker before restoring an earlier image or application. Avoid replacin
 | Library management | Library/download views, profiles, persisted checksums and Activity |
 | Live automation | Verified imports, same-cut revisions, quality upgrades and explicit grabs |
 | `1.0.0` | Public WebUI runtime, automatic refresh and the ship-banner interface |
+| `1.0.2` | Separate Completed/Awaiting action views, visible grab queue, clear RPC errors and delayed-magnet duplicate protection |
 | `1.0.1` | Clean deployment names, portable integration tests, complete source bundle and expanded documentation/gallery |
 
 The standalone steps describe development milestones, not separate public GitHub releases. Earlier plans and the original source remain available; see [ROADMAP.md](ROADMAP.md), [CHANGELOG.md](CHANGELOG.md), the [legacy branch](https://github.com/DaHeroKozuki/Pacearr/tree/legacy/onepacerr-beta1.3) and repository history.

diff --git a/CHANGELOG.md b/CHANGELOG.md
@@ -1,3 +1,7 @@
+# v1.0.2 — Clearer Downloads
+
+Separate Completed/Awaiting action sections and bulk controls; queued grabs exposed; Activity severity filter/current failure count; Deluge method/code/reason retained with secret redaction; existing/being-added hashes reused; accepted but invisible magnets reserve capacity and are not resubmitted automatically.
+
 # v1.0.1 — Set Sail
 
 Clean project/service/container names, expanded documentation with WebUI gallery, preserved historical reference, portable integration tests, source archive and Synology migration/cleanup tools. Application state and imports remain compatible with v1.0.0.
